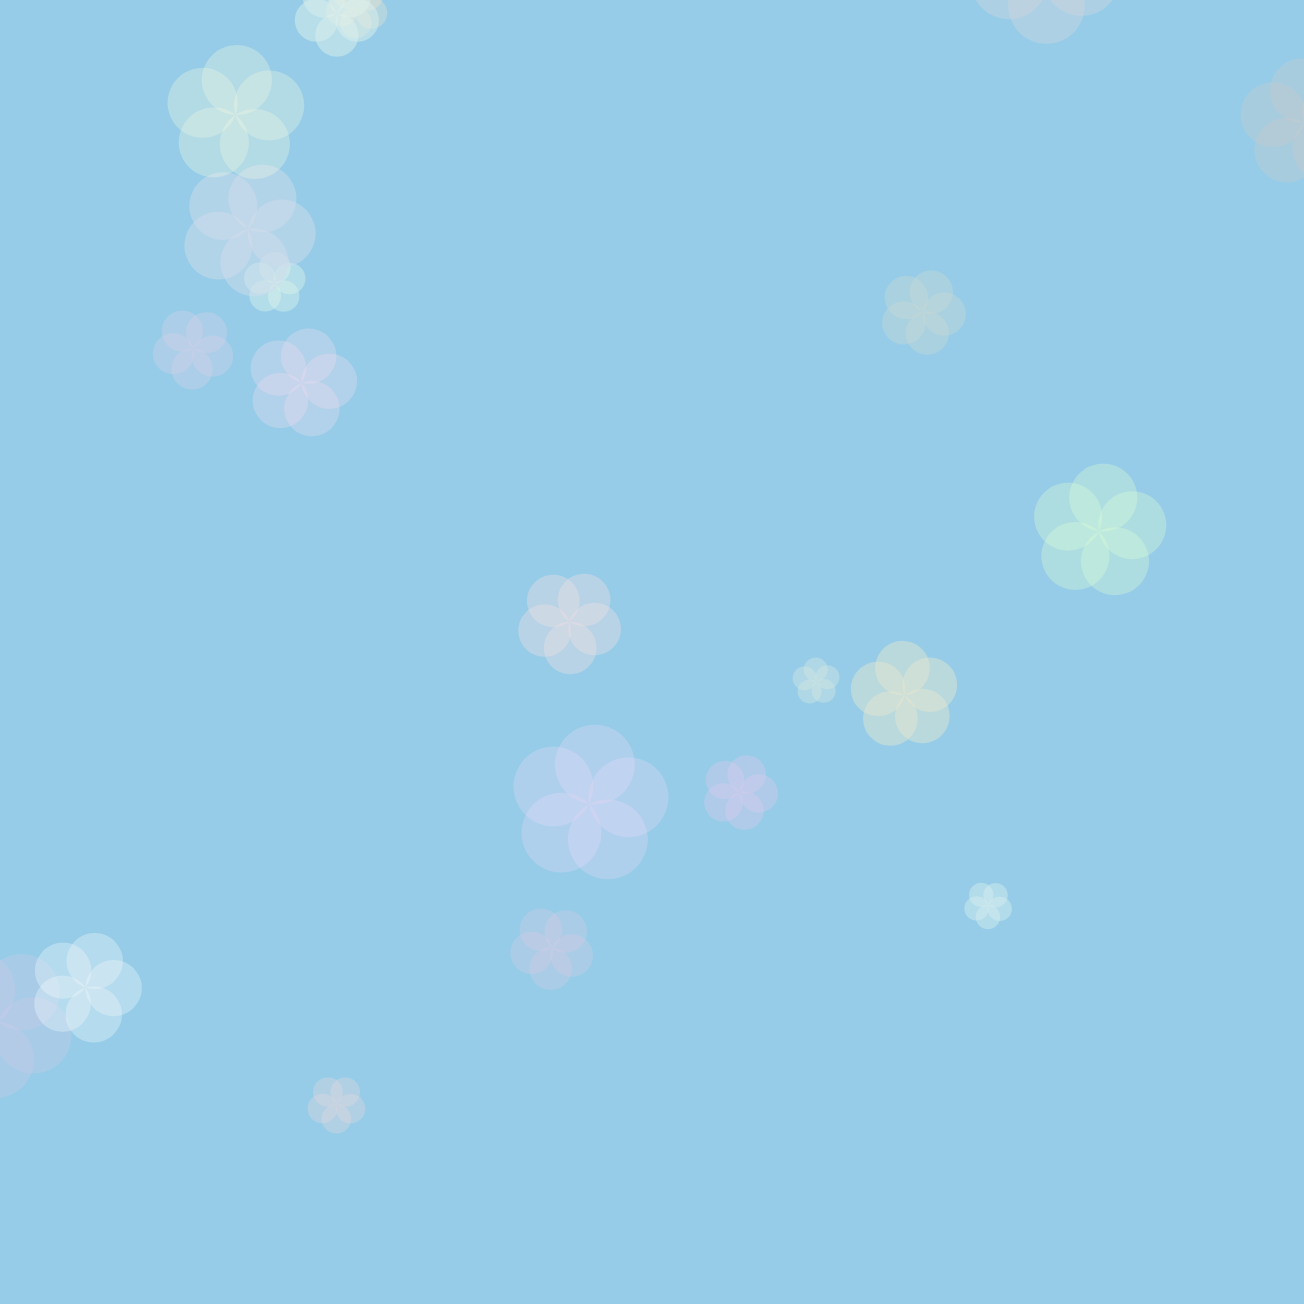
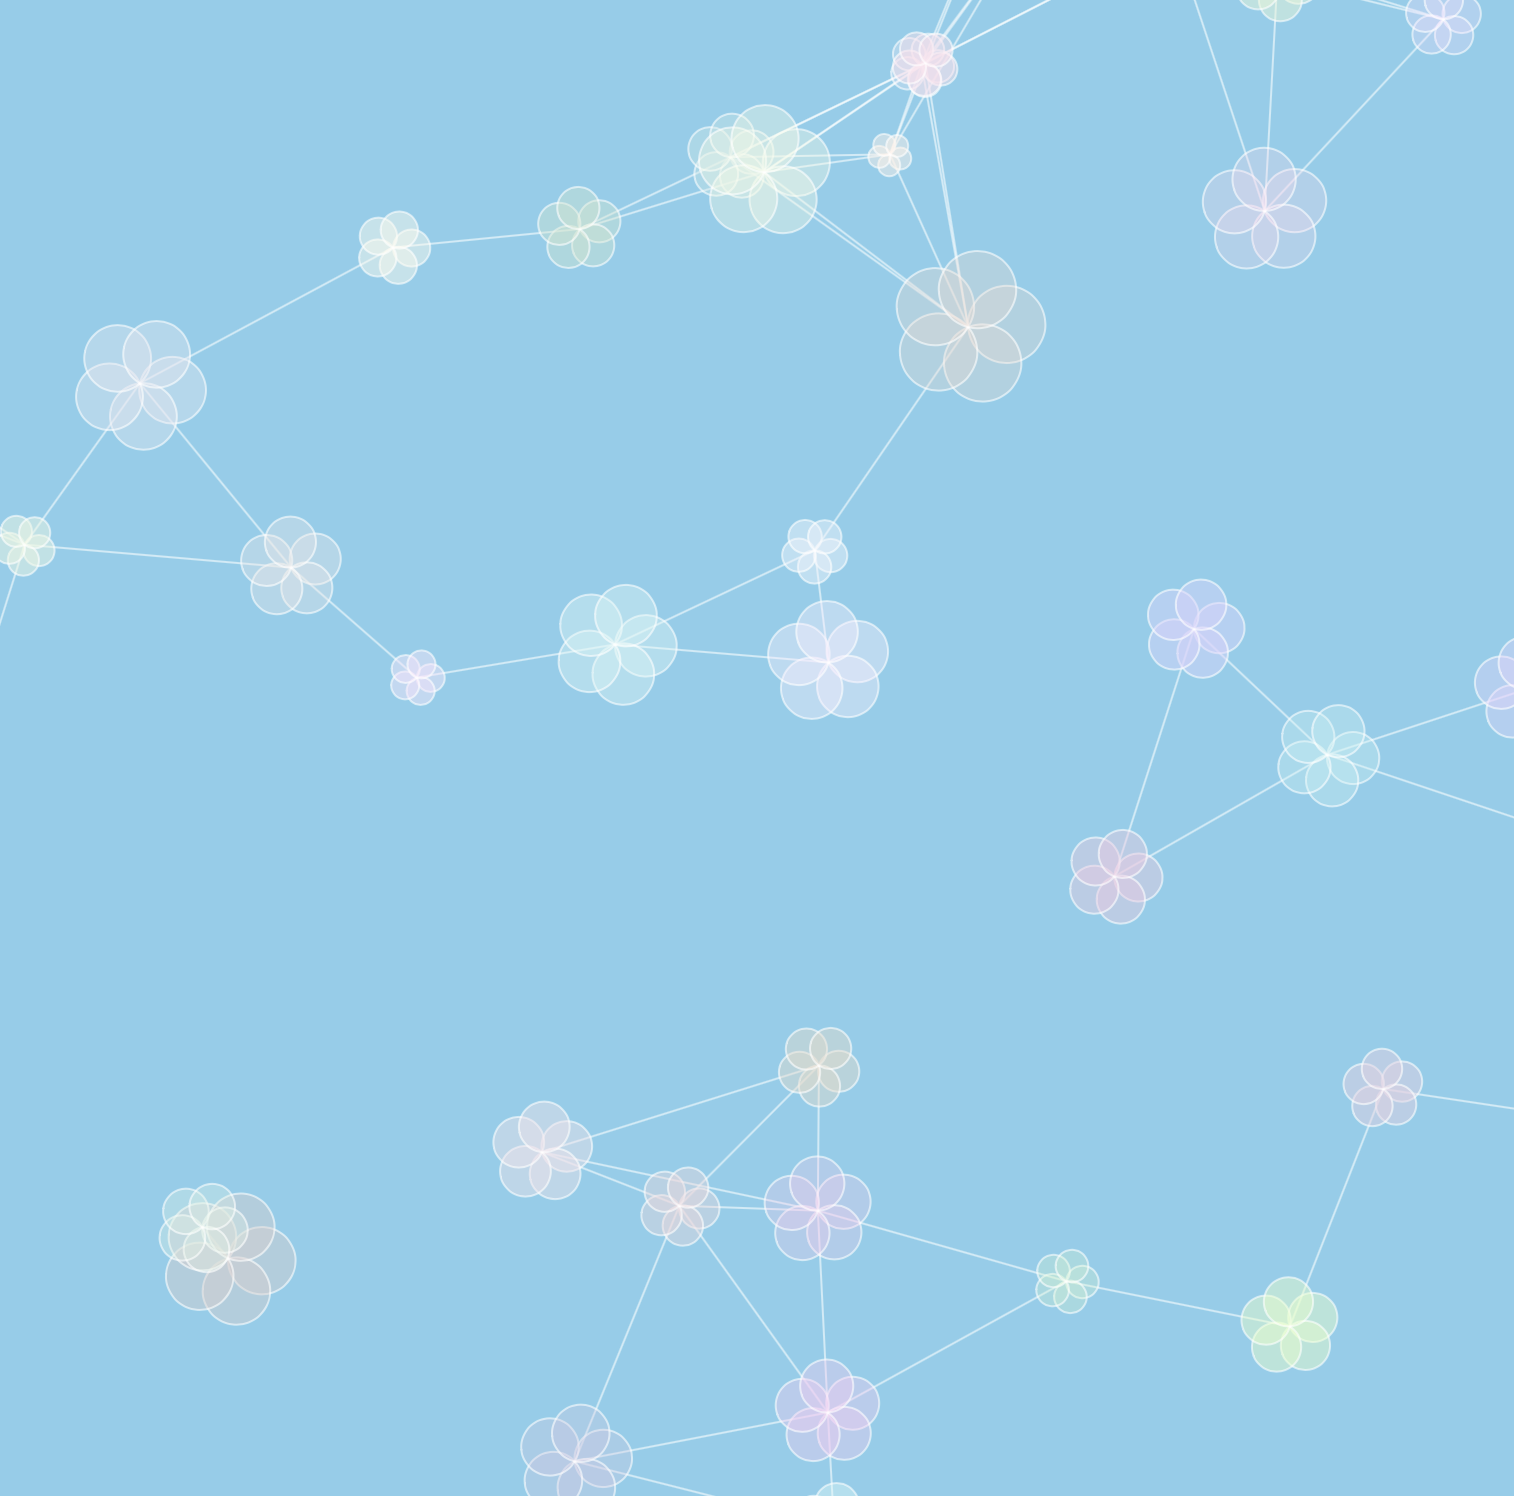
ff

diff --git a/sketch4/script/sketch.js b/sketch4/script/sketch.js
@@ -1,10 +1,12 @@
 let stars = [];
+const numStars = 50;
+const lineThreshold = 150; // 연결선을 그릴 거리 임계값
 
 function setup() {
   createCanvas(windowWidth, windowHeight);
   noStroke();
 
-  for (let i = 0; i < 30; i++) {
+  for (let i = 0; i < numStars; i++) {
     stars.push(new Star(random(width), random(height)));
   }
 }
@@ -12,18 +14,38 @@ function setup() {
 function draw() {
   background('#87CEEB');
 
+  for (let i = 0; i < stars.length; i++) {
+    for (let j = i + 1; j < stars.length; j++) {
+      let distance = dist(stars[i].x, stars[i].y, stars[j].x, stars[j].y);
+
+      // 연결선 그리기
+      if (distance < lineThreshold) {
+        stroke(255, 150);
+        line(stars[i].x, stars[i].y, stars[j].x, stars[j].y);
+      }
+    }
+  }
+
   for (let star of stars) {
     star.update();
     star.display();
     star.interact();
   }
+
+  // 새로운 별 생성
+  if (random() > 0.98) {
+    stars.push(new Star(random(width), random(height)));
+  }
+
+  // 클릭한 별 제거
+  stars = stars.filter((star) => !star.shouldRemove());
 }
 
 function mousePressed() {
   for (let i = stars.length - 1; i >= 0; i--) {
     let distance = dist(mouseX, mouseY, stars[i].x, stars[i].y);
     if (distance < stars[i].interactionRadius) {
-      stars.splice(i, 1);
+      stars[i].explode();
     }
   }
 }
@@ -44,15 +66,27 @@ class Star {
     this.angle = random(TWO_PI);
     this.twinkle = random(0, PI / 8);
     this.interactionRadius = 50;
+    this.exploding = false;
+    this.explosionSize = 10;
+    this.fadeOutSpeed = 4;
   }
 
-  disappear() {
-    this.color.levels[3] = lerp(this.color.levels[3], 0, 0.1);
+  explode() {
+    this.exploding = true;
+  }
+
+  shouldRemove() {
+    return this.exploding && this.explosionSize > 100;
   }
 
   update() {
     this.angle += this.twinkleSpeed;
     this.twinkle = (sin(this.angle) * PI) / 8;
+
+    if (this.exploding) {
+      this.explosionSize *= 1.1;
+      this.color.levels[3] -= this.fadeOutSpeed;
+    }
   }
 
   display() {
@@ -72,6 +106,16 @@ class Star {
       ellipse(x, y, this.size * 2);
     }
     pop();
+
+    if (this.exploding) {
+      fill(
+        this.color.levels[0],
+        this.color.levels[1],
+        this.color.levels[2],
+        this.color.levels[3] * 0.5
+      );
+      ellipse(this.x, this.y, this.explosionSize);
+    }
   }
 
   interact() {
